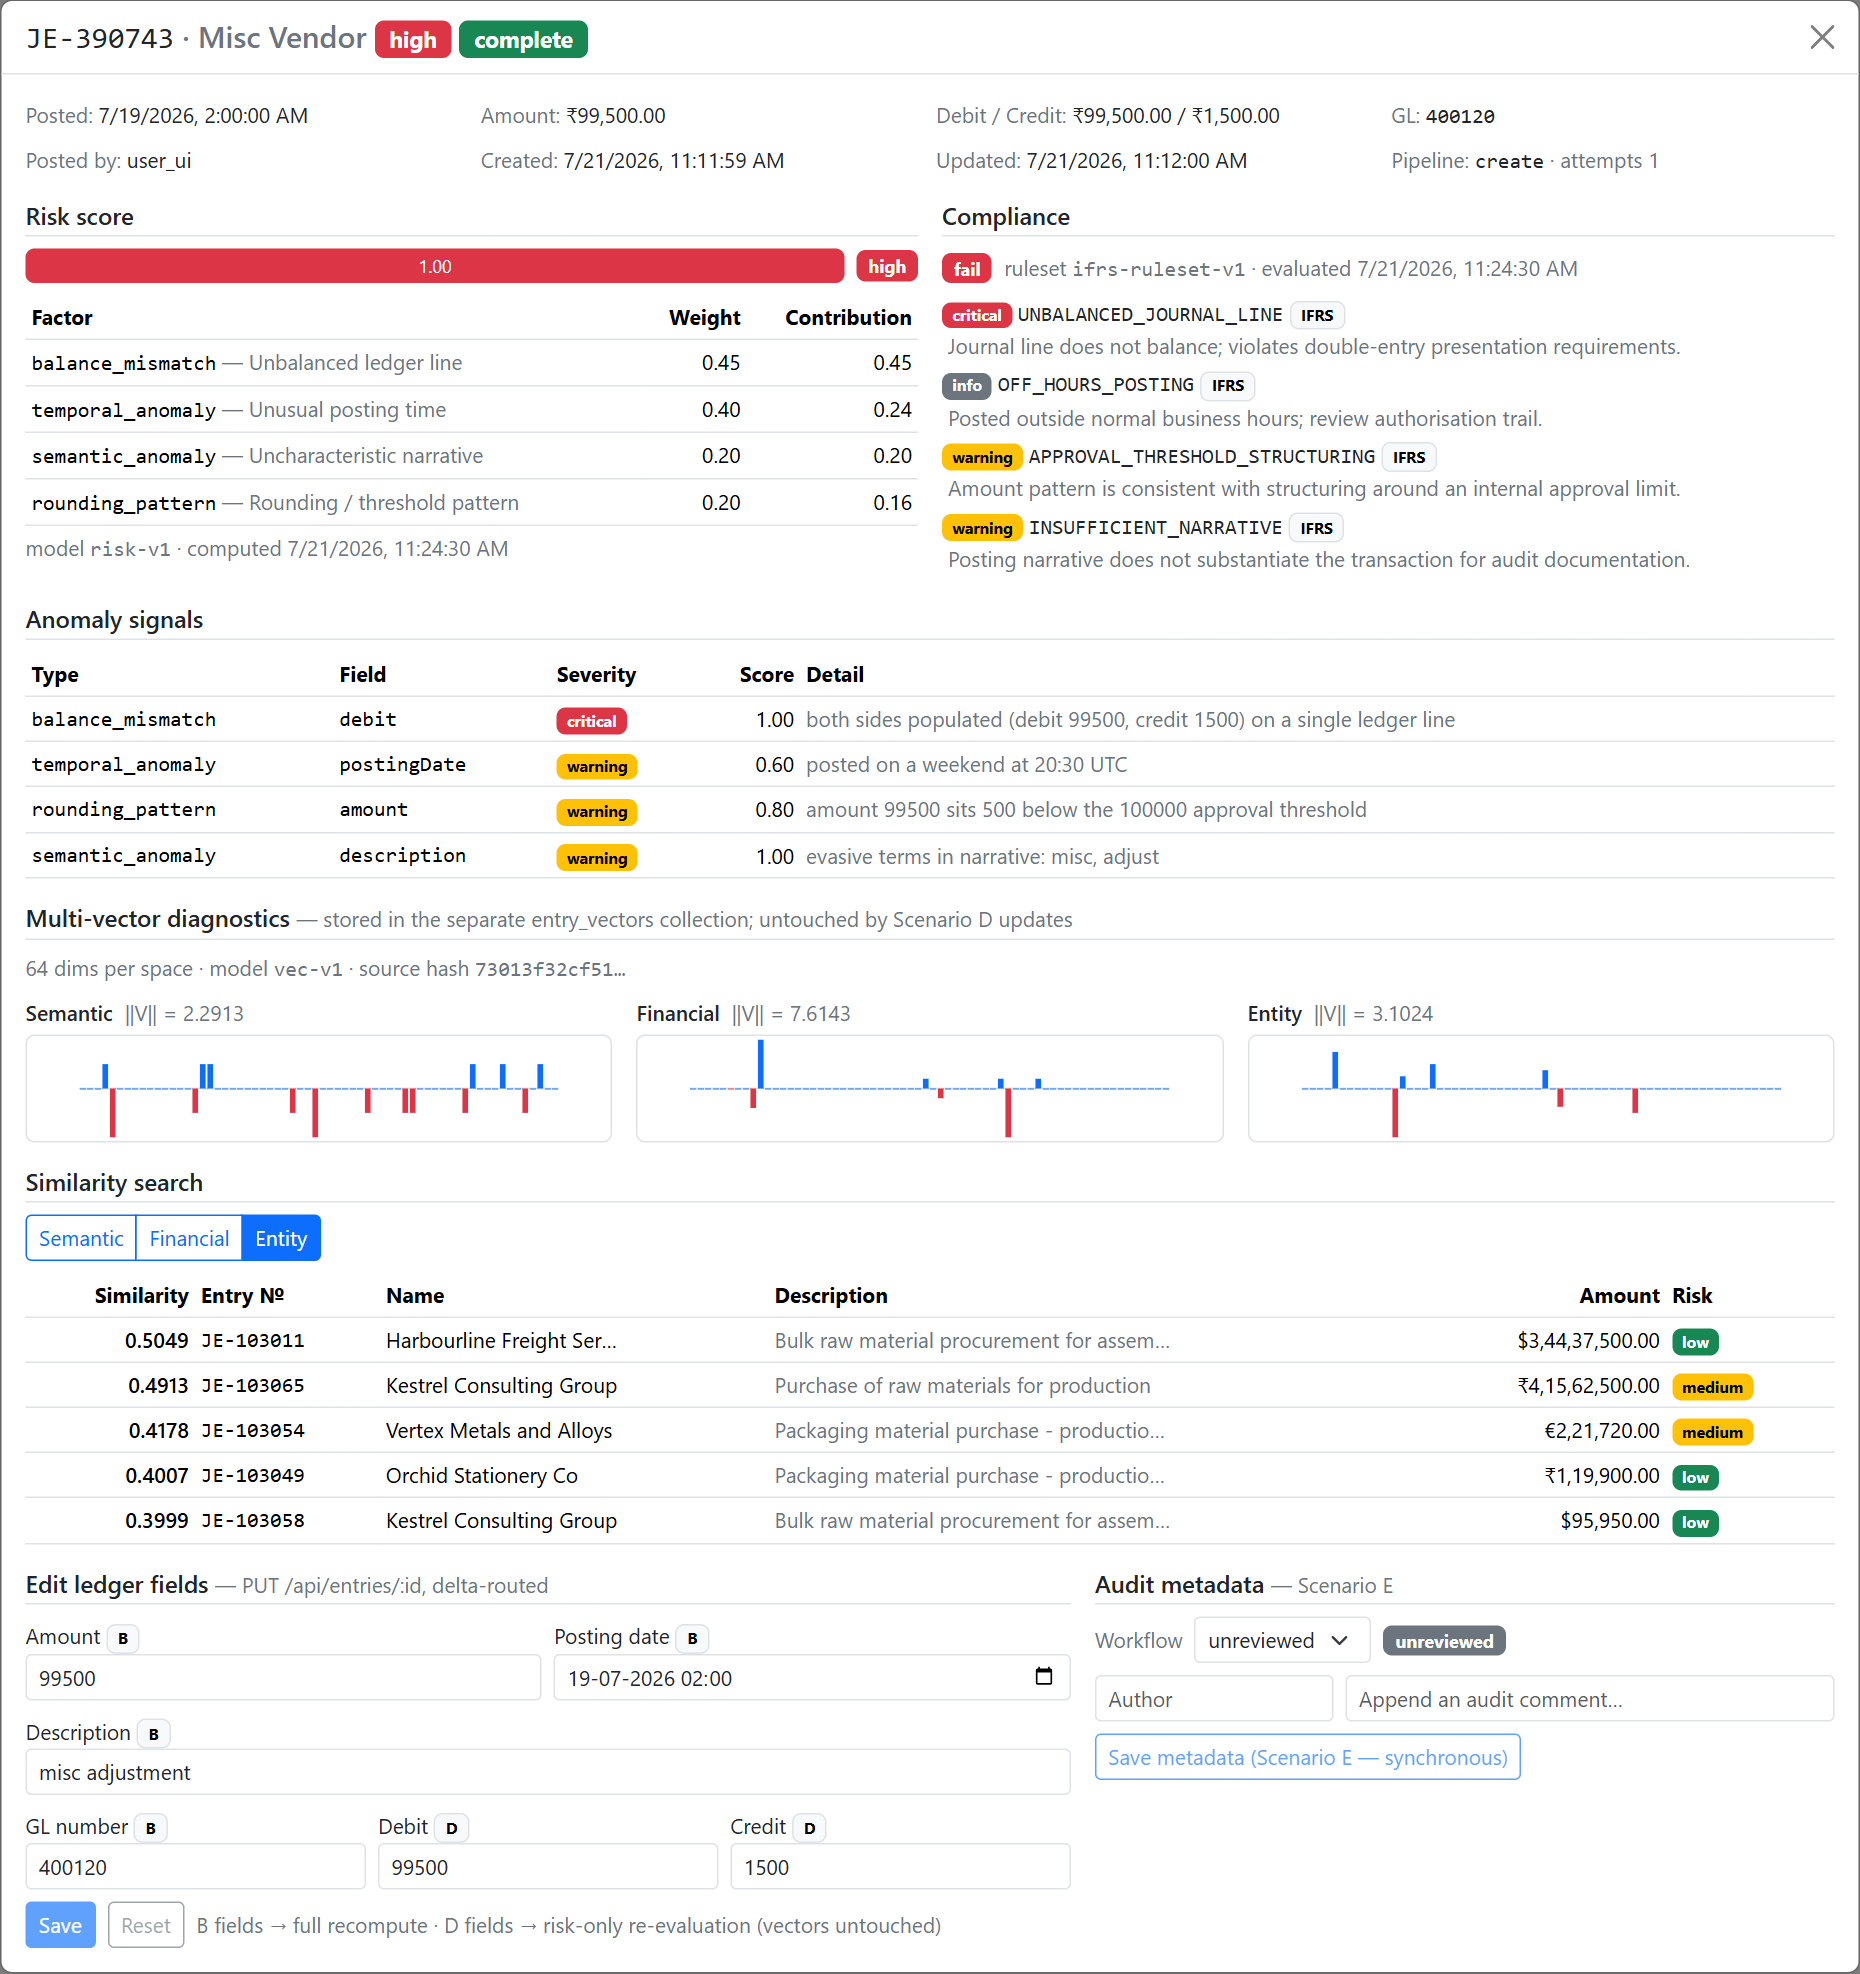
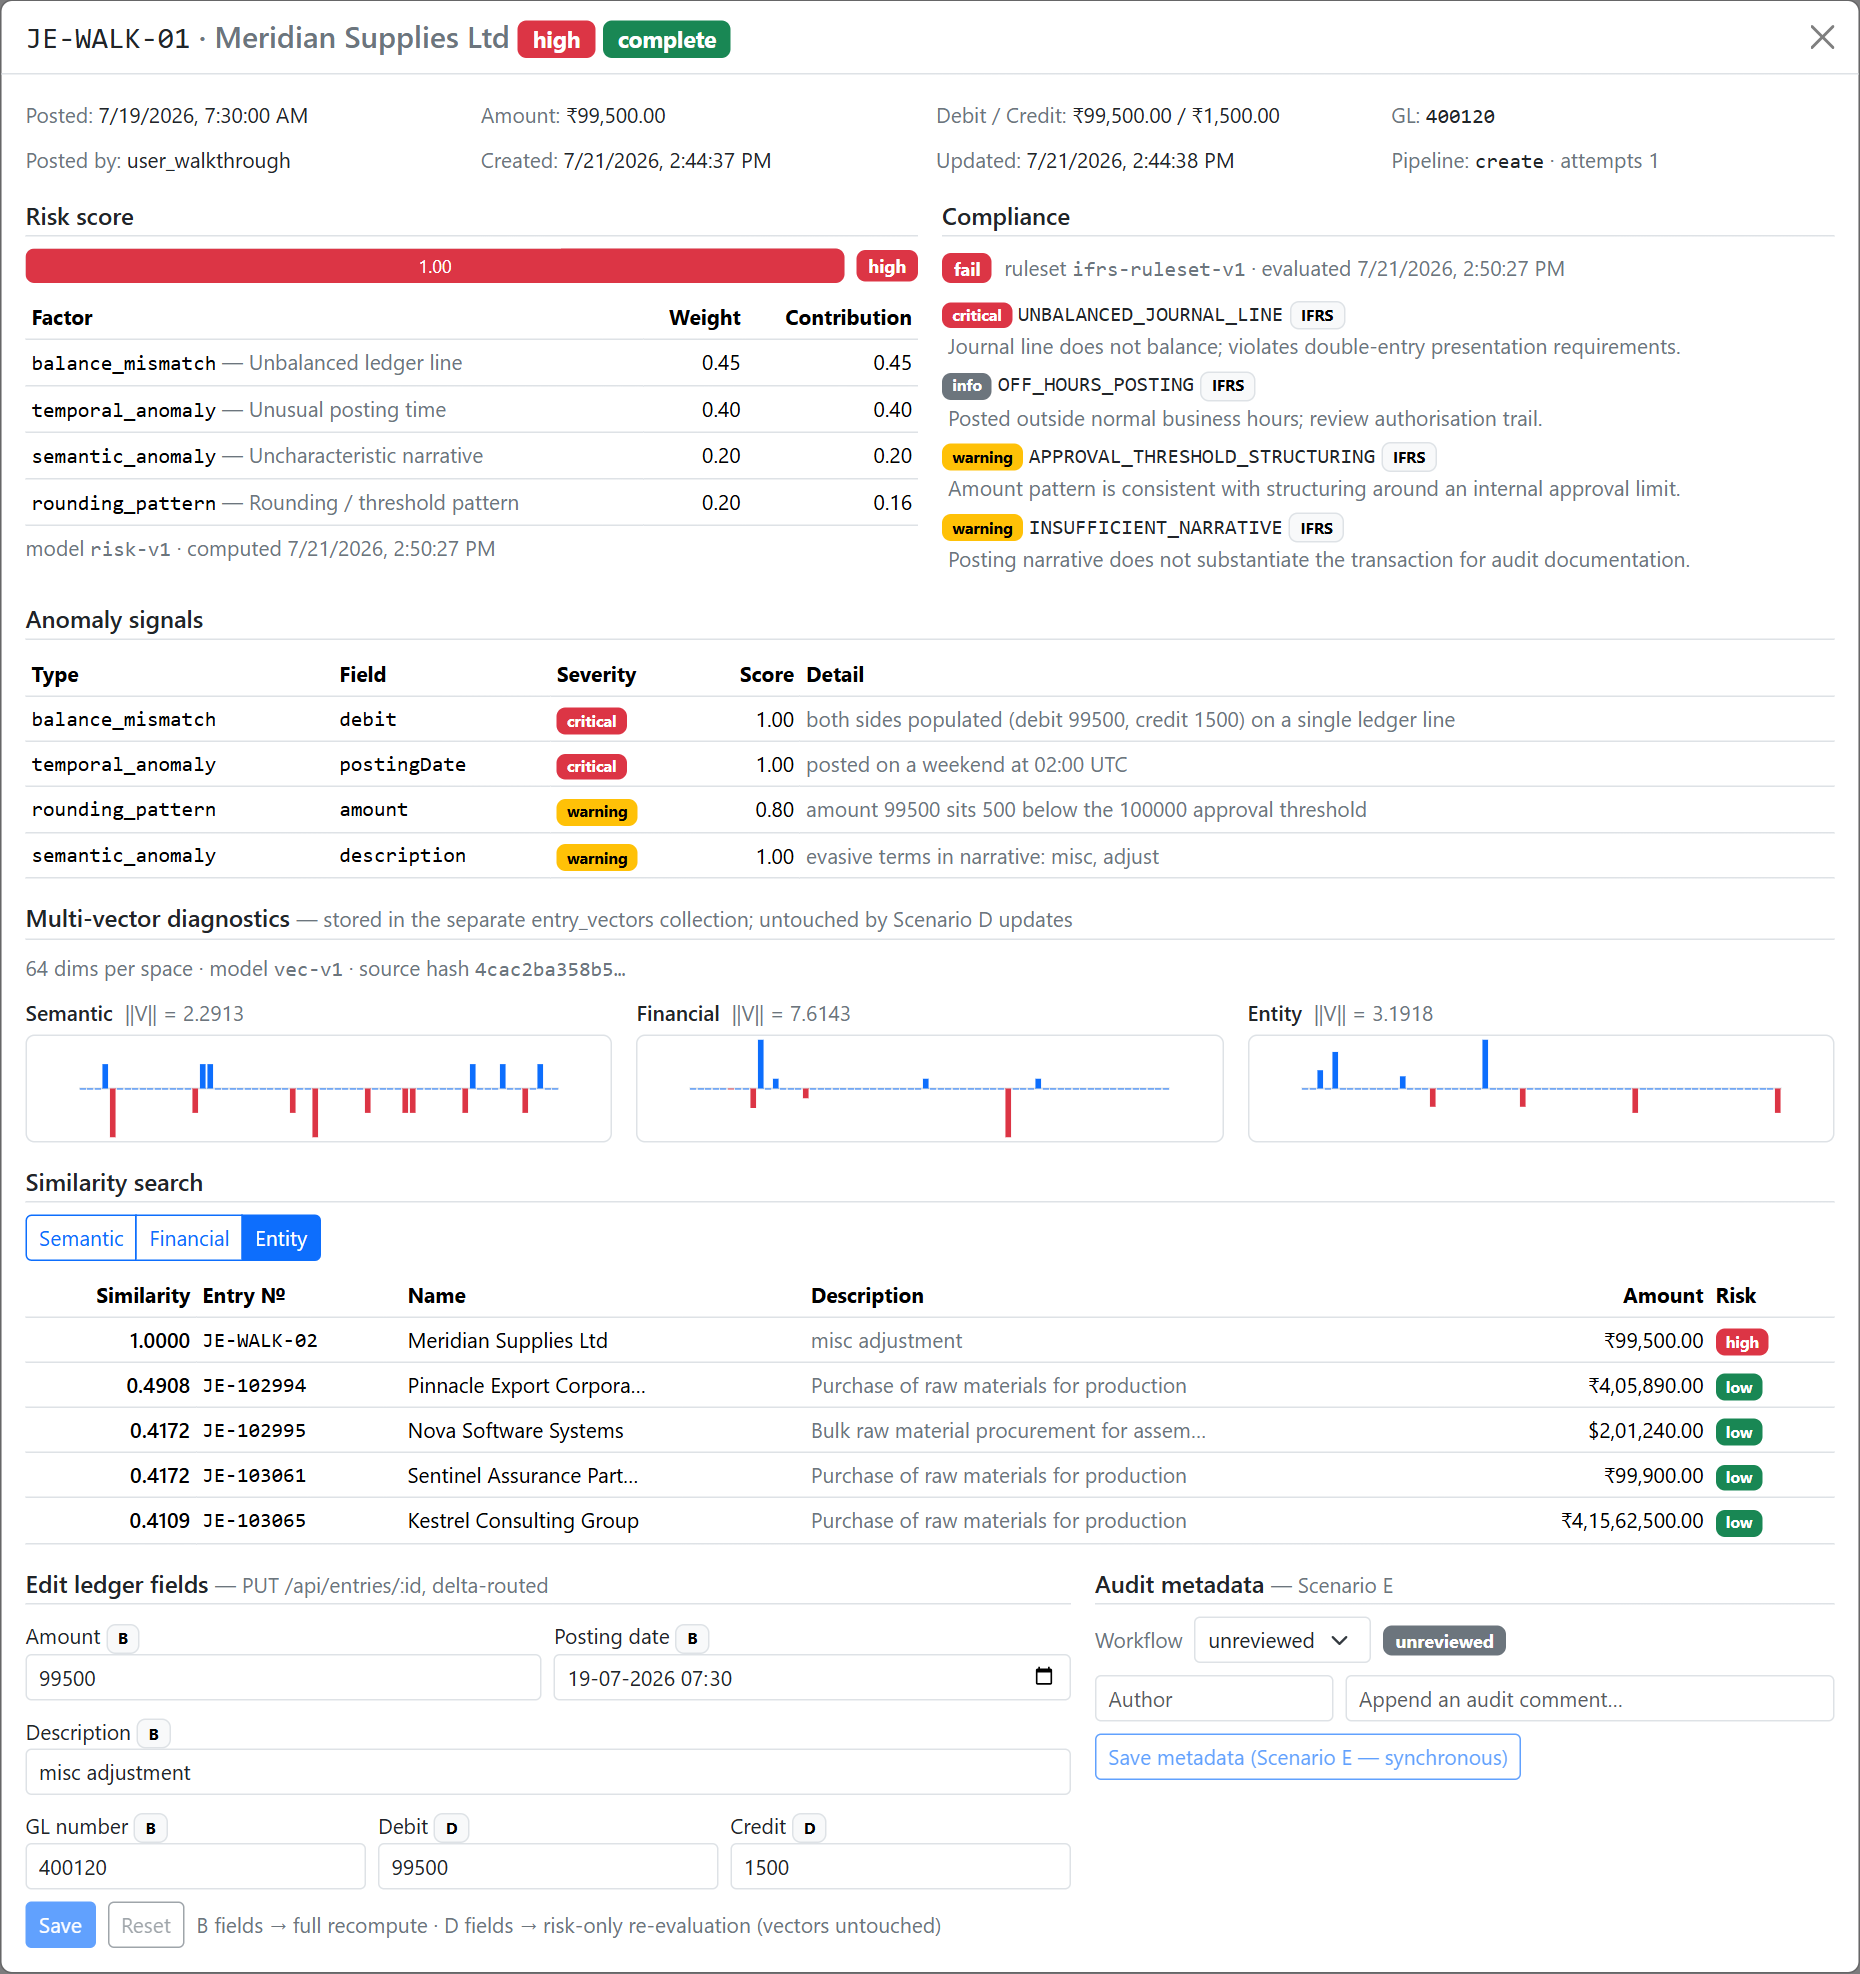
Add end-to-end workflow media: app, server, worker, admin scripts, test run

diff --git a/README.md b/README.md
@@ -176,21 +176,45 @@ The dashboard's diagnostics modal badges pre-migration vectors as **stale model*
 
 ## Demo media
 
-Captured against the running stack (`docs/media/`).
+Captured against the running stack. Terminal images are syntax-highlighted renderings of real captured output — the verbatim source for the worker log and the test run ships alongside them as `.txt`, so the images can be checked against the text.
 
-**1 · Dashboard** — risk-tier colour coding, per-entry anomaly counts, compliance and enrichment badges, and a freshly-created entry still `pending` while the worker is mid-flight. The header shows the adaptive poll ("worker active — polling every 2s").
+### The application
+
+**Dashboard** — risk-tier colour coding, per-entry anomaly counts, compliance and enrichment badges, and a live poll indicator. `JE-WALK-01` sits at risk 1.00 / high; `JE-103069` carries the `escalated` workflow badge written by a Scenario E edit.
 
 ![SmartAudit dashboard](docs/media/dashboard.png)
 
-**2 · Multi-vector diagnostics modal** — itemised risk factors with weights and contributions, IFRS compliance flags, granular anomaly signals naming both type *and* field, all three 64-dimension vector spaces with their L2 norms, and a live entity-strategy similarity search. The edit surface tags each field with the scenario it routes to (**B** = full recompute, **D** = risk-only).
+**Multi-vector diagnostics modal** — itemised risk factors with weights and contributions, four IFRS compliance flags, granular anomaly signals naming both type *and* field, all three 64-dimension vector spaces with their L2 norms, and a live entity-strategy similarity search that surfaces the duplicate `JE-WALK-02` at similarity `1.0000`. The edit surface tags each field with the scenario it routes to.
 
 ![Diagnostics modal](docs/media/diagnostics-modal.png)
 
-**3 · Worker terminal during a recomputation loop** — one worker process handling, in order: a Scenario A create (`reason=create, pipeline=full`), a Scenario B core-field edit (`reason=core_field_change, pipeline=full`), and a Scenario D balance edit (`reason=context_shift, pipeline=partial`). A Scenario E metadata edit was issued between them and produces **no line at all** — it bypasses the queue entirely.
+### The pipeline
+
+**Worker during recomputation** — one worker handling a Scenario A create (`reason=create, pipeline=full`), a Scenario B core-field edit (`reason=core_field_change, pipeline=full`), and a Scenario D balance edit (`reason=context_shift, pipeline=partial`). Scenario E edits were issued between them and produce **no line at all**: they bypass the queue entirely. Raw log: [`worker-recompute.txt`](docs/media/worker-recompute.txt).
 
 ![Worker terminal log](docs/media/worker-terminal.png)
 
-> The log image is a syntax-highlighted rendering of captured worker output, not a photo of a terminal window. The verbatim source is committed alongside it at [`docs/media/worker-recompute.txt`](docs/media/worker-recompute.txt) — the text in the image matches that file exactly.
+**All five scenarios through the API** — each `PUT` returns the routing block that names the detected scenario, and a field outside the closed taxonomy is refused with a 400 listing what *is* updatable.
+
+![Scenarios A-E via the API](docs/media/api-scenarios.png)
+
+**Server** — one process serving the API and the built client from a single origin.
+
+![Server startup](docs/media/server-startup.png)
+
+### Admin scripts and tests
+
+**Migration and bulk re-evaluation** — a dry run, a real keyset-paginated migration across five batches, a no-op re-run proving the version stamp is the checkpoint, and a bulk risk re-evaluation reporting `vectors untouched`.
+
+![Admin scripts](docs/media/admin-scripts.png)
+
+**Seeding** — 500 deterministic entries with a planted-cohort report, so detection output can be compared against a known answer.
+
+![Seed run](docs/media/seed-run.png)
+
+**Test suite** — 31 tests, 0 failures. Raw output: [`test-run.txt`](docs/media/test-run.txt).
+
+![Test run](docs/media/test-run.png)
 
 ---
 